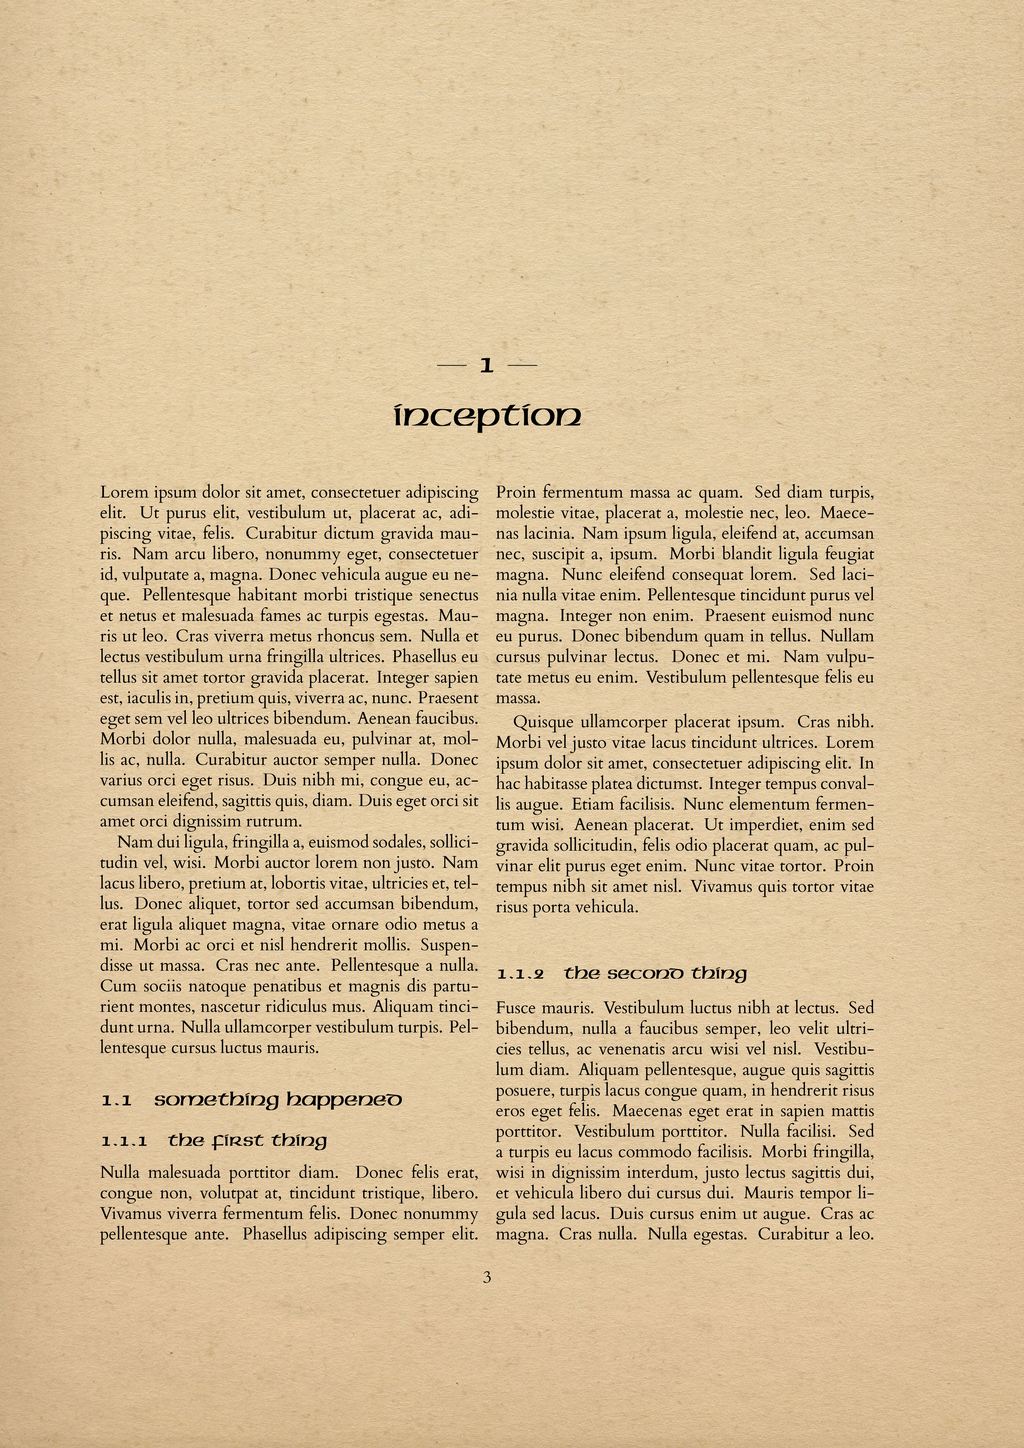
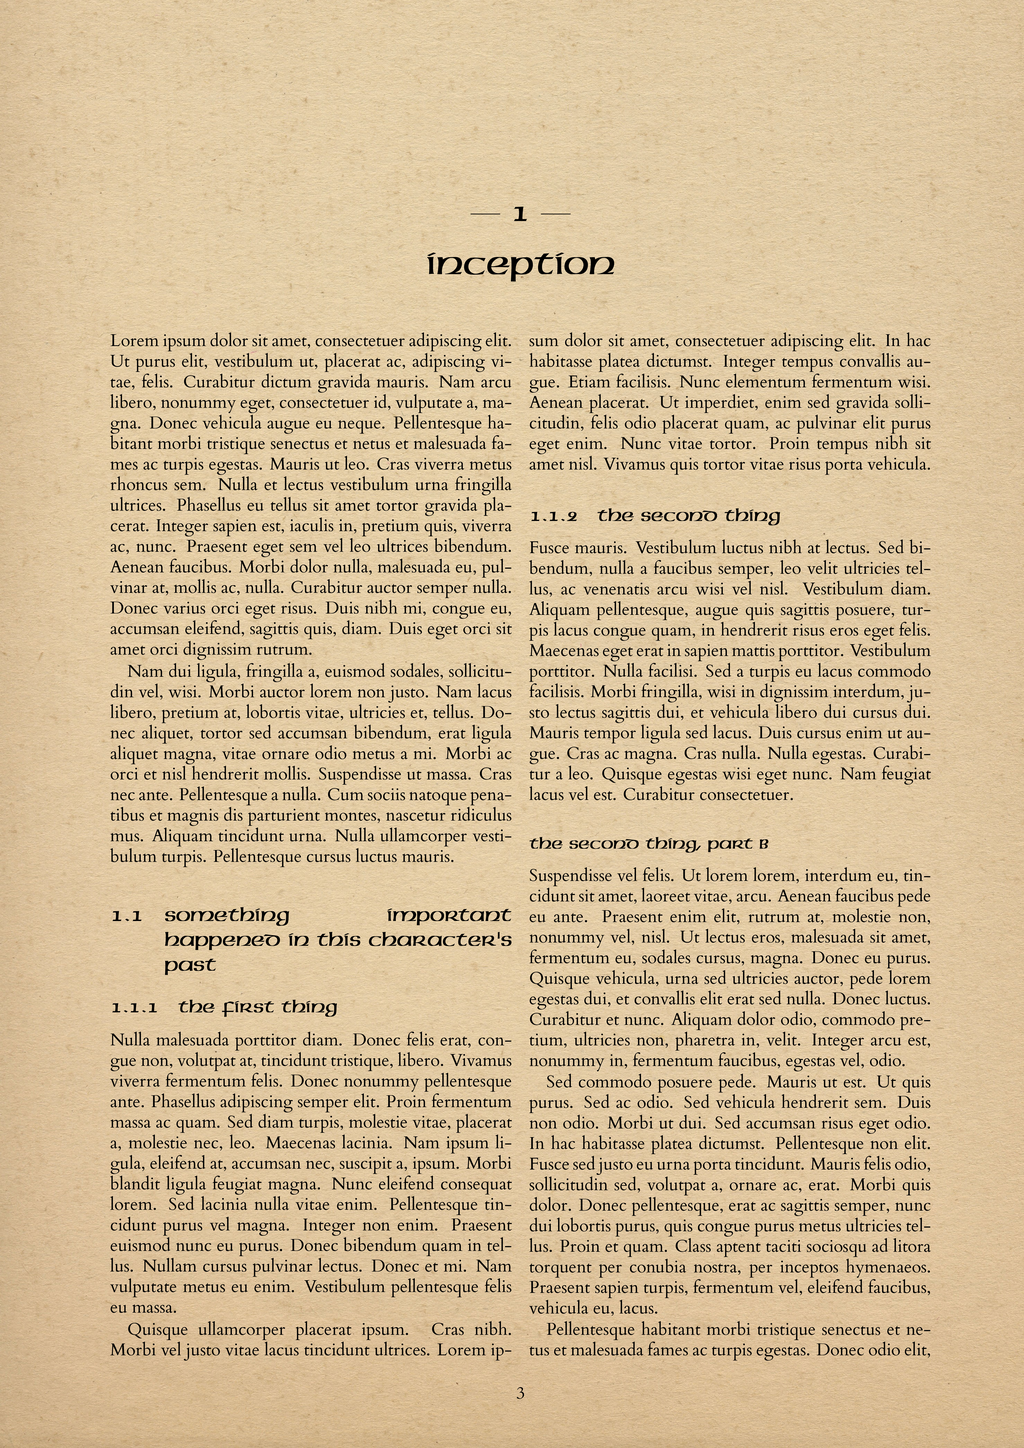
feat(a5paper): added explicit margins for better a5 printing

Changed region(s): [[0.0938, 0.2175, 0.9062, 0.9323], [0.4062, 0.1554, 0.5938, 0.1865]]

diff --git a/fantasy-a5.tex b/fantasy-a5.tex
@@ -1,0 +1,8 @@
+%!TEX TS-program = xelatex
+% http://www.ctan.org/pkg/memoir
+\documentclass[a5paper,hidelinks,twoside,onecolumn,11pt]{memoir}
+
+% gutter margin should be .875″ or 22.5mm, outer margin should be .75″ or 19mm
+% this makes the text block = 148.5 - 22.5 - 19 = 107mm wide
+\usepackage[fantasy]{rpg}
+\input{common/character-background-content}

diff --git a/common/character-background-content.tex b/common/character-background-content.tex
@@ -44,7 +44,7 @@
 
 \lipsum[2]
 
-\section{Something happened}
+\section{Something important happened in this character's past}
 
 \subsection{The first thing}
 
@@ -58,7 +58,7 @@
 
 \subsubsection{The second thing, part B}
 
-\lipsum[6]
+\lipsum[6-9]
 
 \part{The Full Story}
 

diff --git a/eldritch-a5.tex b/eldritch-a5.tex
@@ -1,0 +1,7 @@
+%!TEX TS-program = xelatex
+
+% http://www.ctan.org/pkg/memoir
+\documentclass[a5paper,hidelinks,twoside,onecolumn,11pt]{memoir}
+
+\usepackage[eldritch]{rpg}
+\input{common/character-background-content}

diff --git a/modern-a5.tex b/modern-a5.tex
@@ -1,0 +1,7 @@
+%!TEX TS-program = xelatex
+
+% http://www.ctan.org/pkg/memoir
+\documentclass[a5paper,hidelinks,twoside,onecolumn,11pt]{memoir}
+
+\usepackage[modern]{rpg}
+\input{common/character-background-content}

diff --git a/README.md b/README.md
@@ -26,16 +26,19 @@ pre-commit autoupdate                       # To update pre-commit hooks.
 
 ## Styles
 
-We can have several styles.
+We can have several styles, in both A4 and a5 variants.
 
 ### Modern
 
 ![Modern style](showcase/modern.png?raw=true "Modern style")
+![Modern style, A5](showcase/modern-a5.png?raw=true "Modern style, A5 paper")
 
 ### Fantasy
 
 ![Fantasy style](showcase/fantasy.png?raw=true "Fantasy style")
+![Fantasy style, A5](showcase/fantasy-a5.png?raw=true "Fantasy style, A5 paper")
 
 ### Eldritch
 
 ![Eldritch style](showcase/eldritch.png?raw=true "Eldritch style")
+![Eldritch style, A5](showcase/eldritch-a5.png?raw=true "Eldritch style, A5 paper")
